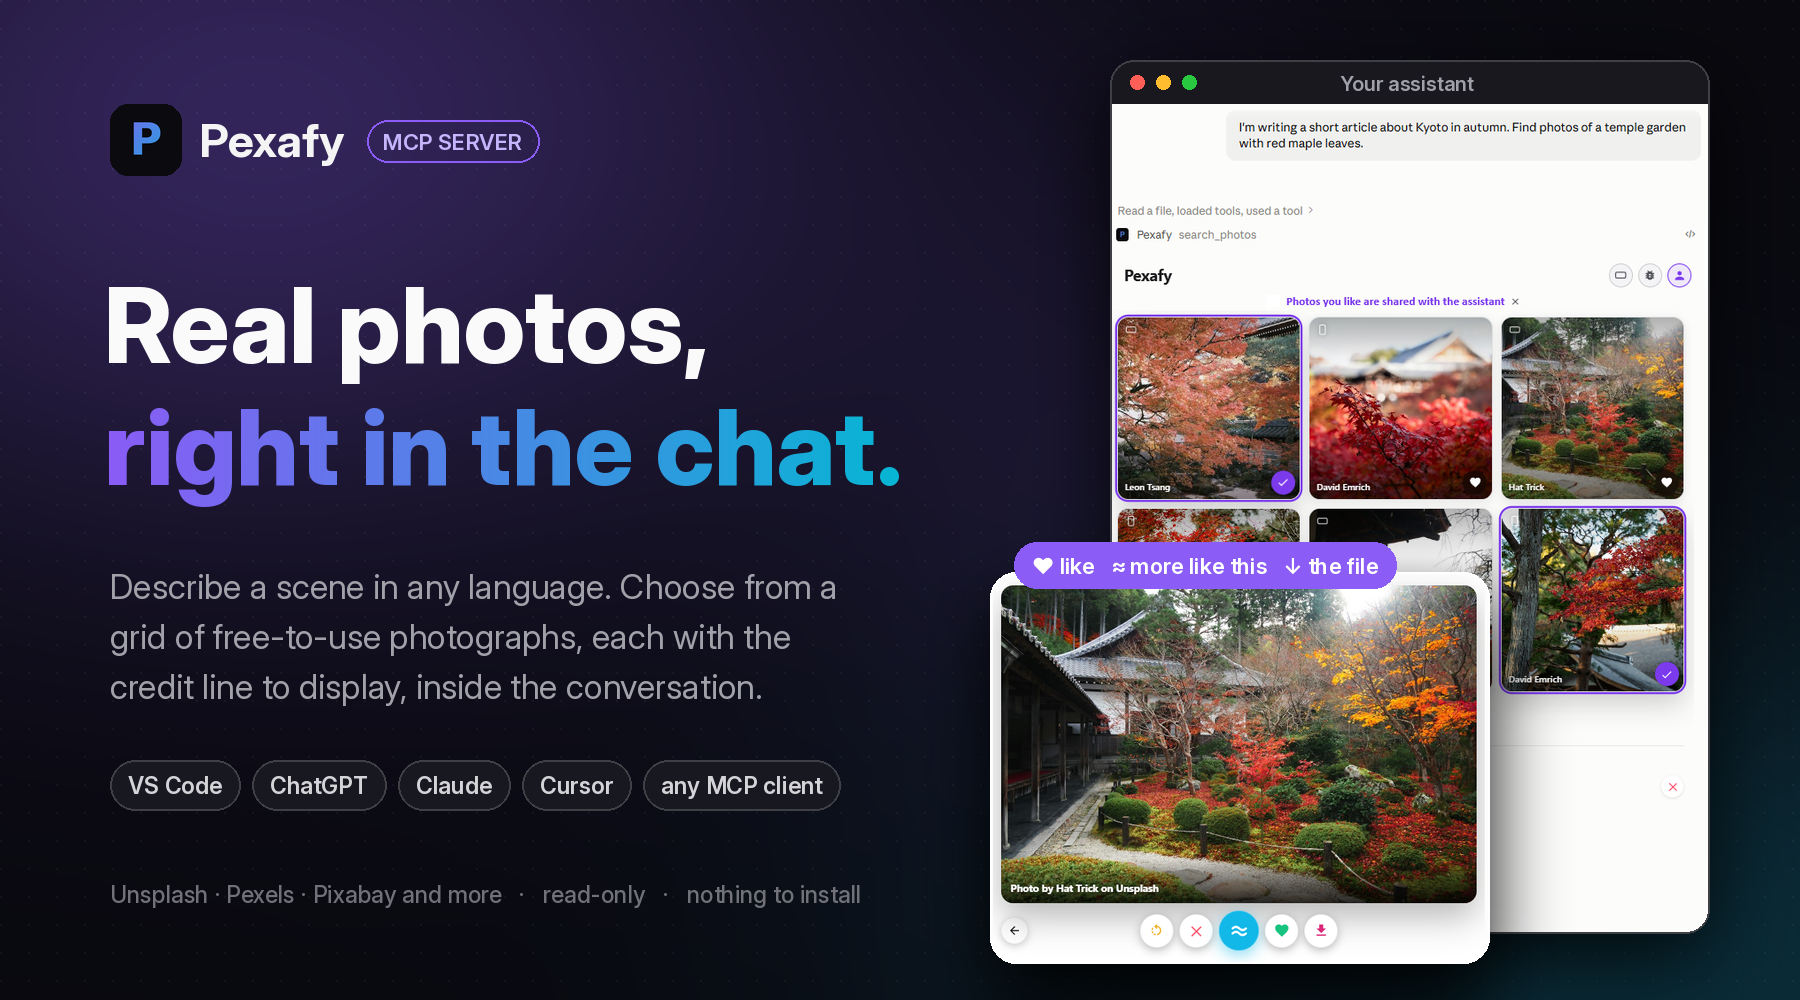
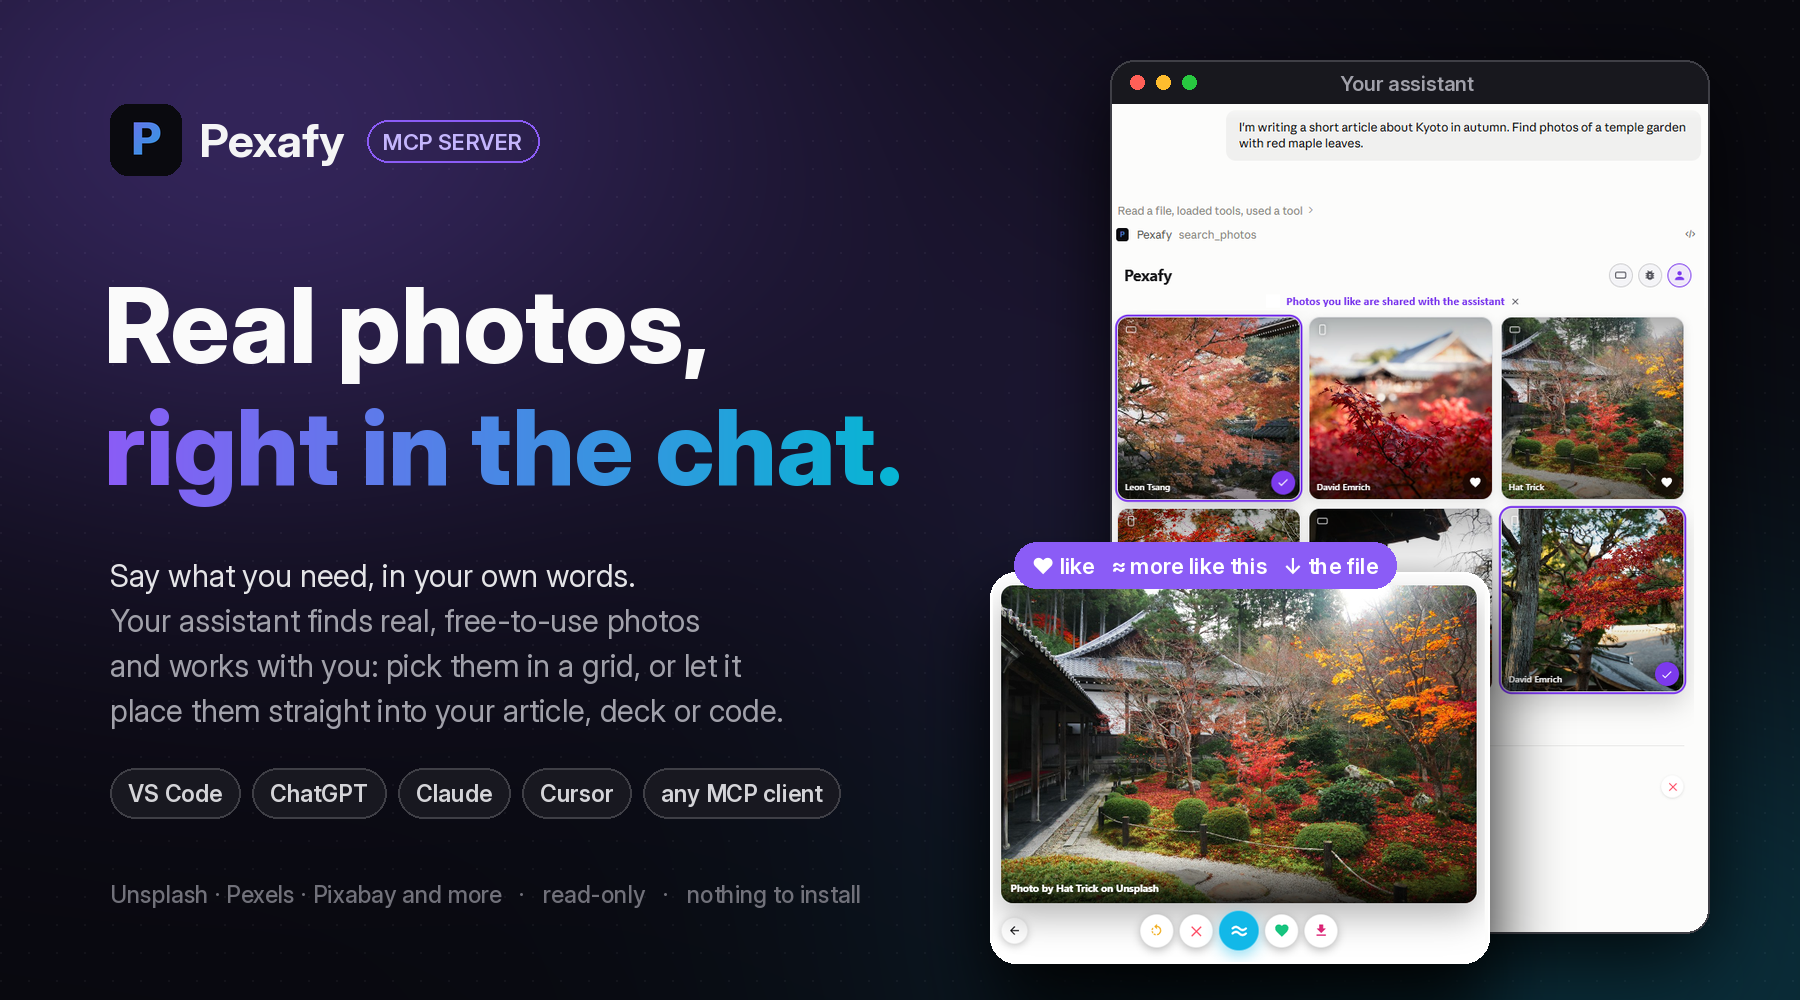
docs(readme): the user asks, the assistant searches; choosing together, with or without the grid

Changed region(s): [[0.0622, 0.558, 0.4667, 0.837]]

diff --git a/README.md b/README.md
@@ -21,33 +21,39 @@
 
 <br>
 
-## Describe it. Choose it. Use it.
+## Ask. Choose together. Put them to work.
 
 <table>
 <tr>
 <td width="33%" valign="top">
 
-### 🗣 Describe
+### 🗣 Ask, in your own words
 
-One sentence, any language: *“someone working alone late at night, lit only by a warm desk lamp”*. Pexafy matches the **scene**, not tags.
-
-</td>
-<td width="33%" valign="top">
-
-### ❤ Choose
-
-Sixteen photographs land in a grid **inside the chat**. Open one large, swipe, heart the keepers, press **≈** for more like it.
+Tell your assistant what you are working on, the way you would tell a colleague: *“I'm writing a short article about Kyoto in autumn. Find photos of a temple garden with red maple leaves.”* It writes the search; Pexafy matches the scene, not tags.
 
 </td>
 <td width="33%" valign="top">
 
-### 📎 Use
+### 🤝 Choose together
 
-Your picks go back to the assistant **in your order**, with the licence and the credit line to display, or as an **image file** for a slide, a post or a doc.
+Sixteen photographs come back. Open one large, swipe, heart the keepers, press **≈** for more like it: your picks go back to the assistant, **in your order**. Or simply answer in words: *“the third one, but wider”*.
+
+</td>
+<td width="33%" valign="top">
+
+### 🚀 Put them to work
+
+The assistant carries on with them: the article with its photos in place, the slide, the landing page, the post. Each photograph keeps its licence and the credit line to display, and comes as an **image file** when the work needs one.
 
 </td>
 </tr>
 </table>
+
+## With the grid, or without it
+
+| In a chat that draws it | In an agent, a terminal or a script |
+|---|---|
+| **ChatGPT, Claude, VS Code, Cursor.** The photographs appear as a grid in the conversation. You see them, open them, like them; the assistant works from what you picked. | **Claude Code, Codex, any MCP client.** Each result arrives as a link with its licence and credit line. The assistant chooses, fetches the file and places it in your Markdown, HTML, slides or CMS. |
 
 ## Add it in 30 seconds
 
@@ -71,8 +77,6 @@ Your picks go back to the assistant **in your order**, with the licence and the 
 | `get_photo_file_by_photo_id` | One photograph as an image file, up to 1280 px wide, with its credit line. |
 | `get_grid_selected_photos` | The photographs you liked in the grid, in the order you chose. |
 | `connect_account` | Links your Pexafy account, right from the conversation. |
-
-Where the host renders MCP Apps (ChatGPT, Claude, VS Code), results arrive as the grid above. Everywhere else, each one comes back as a link with its credit line.
 
 ## Where the photos come from
 
